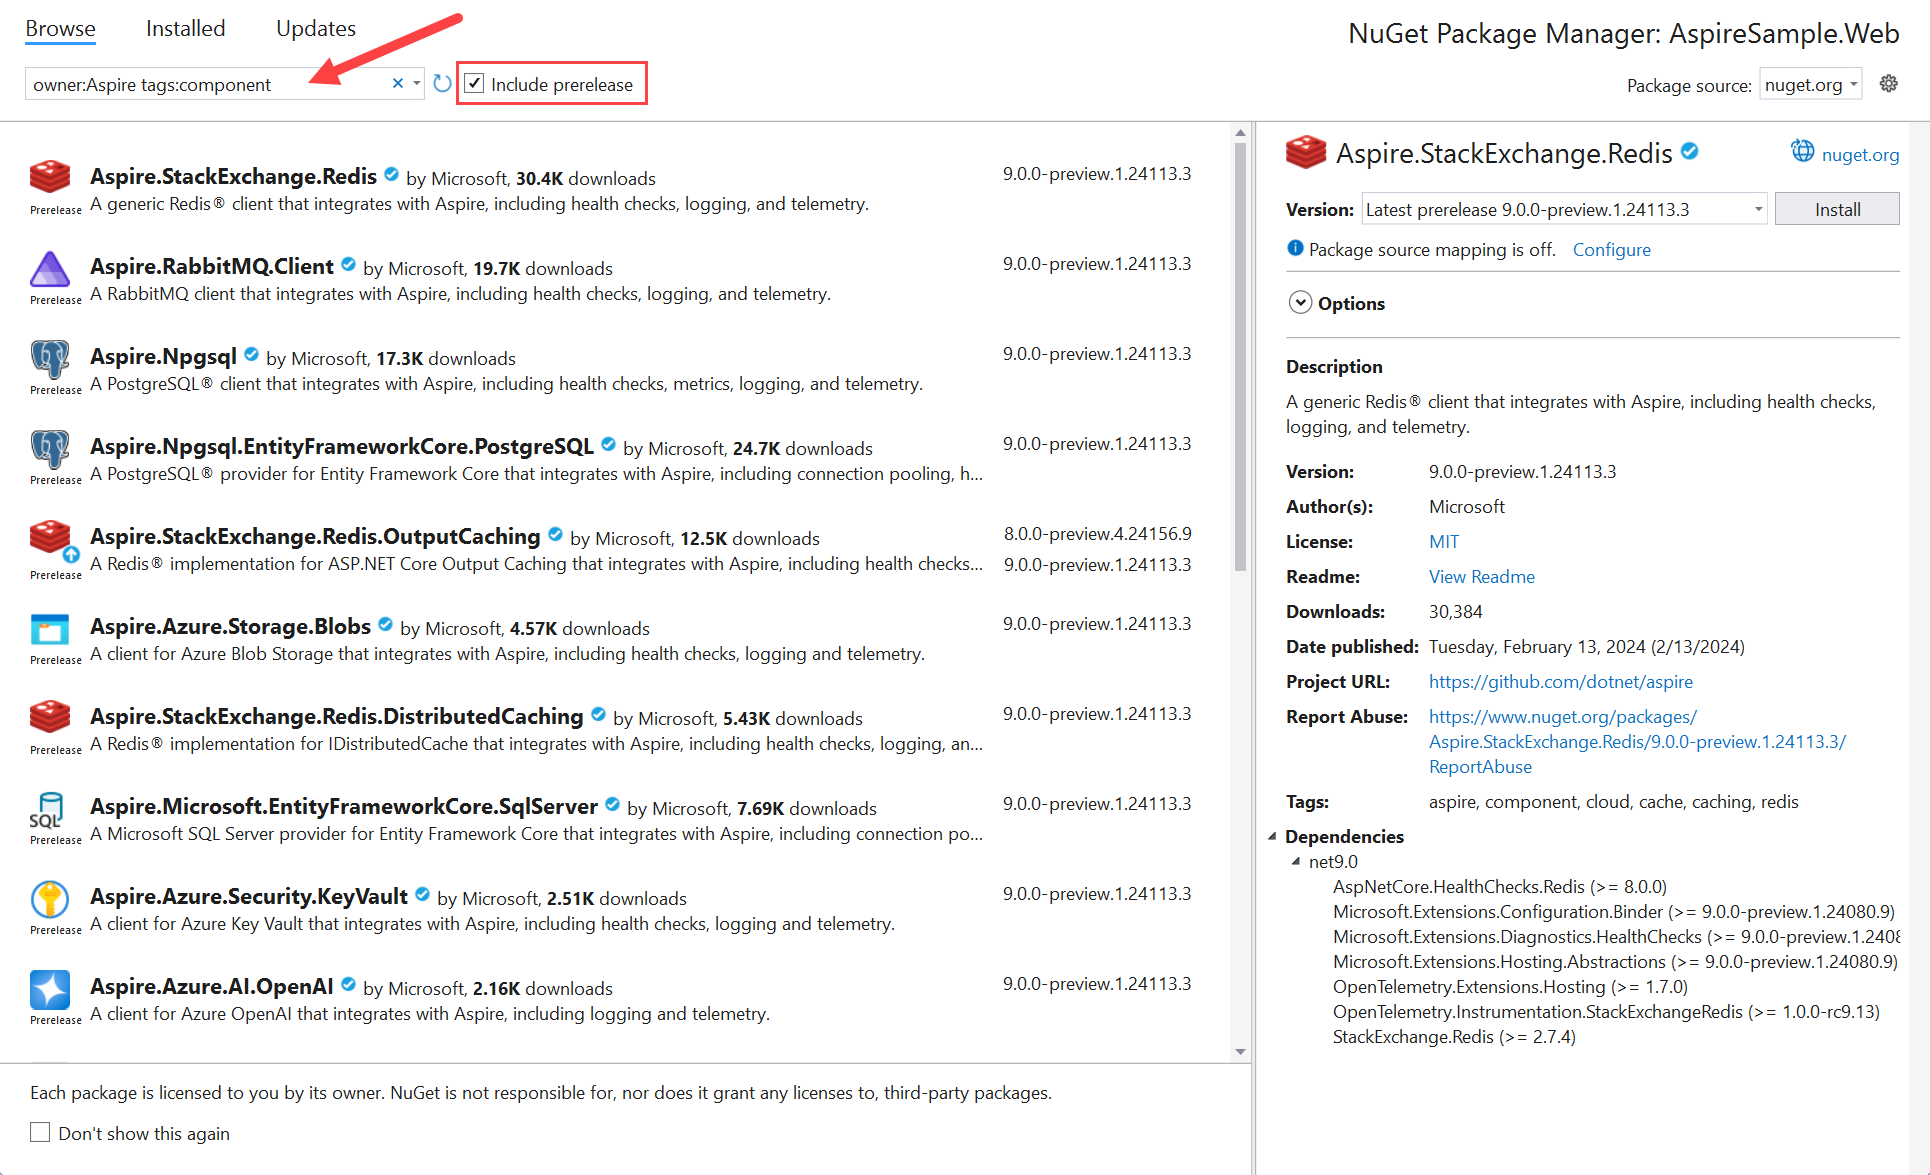
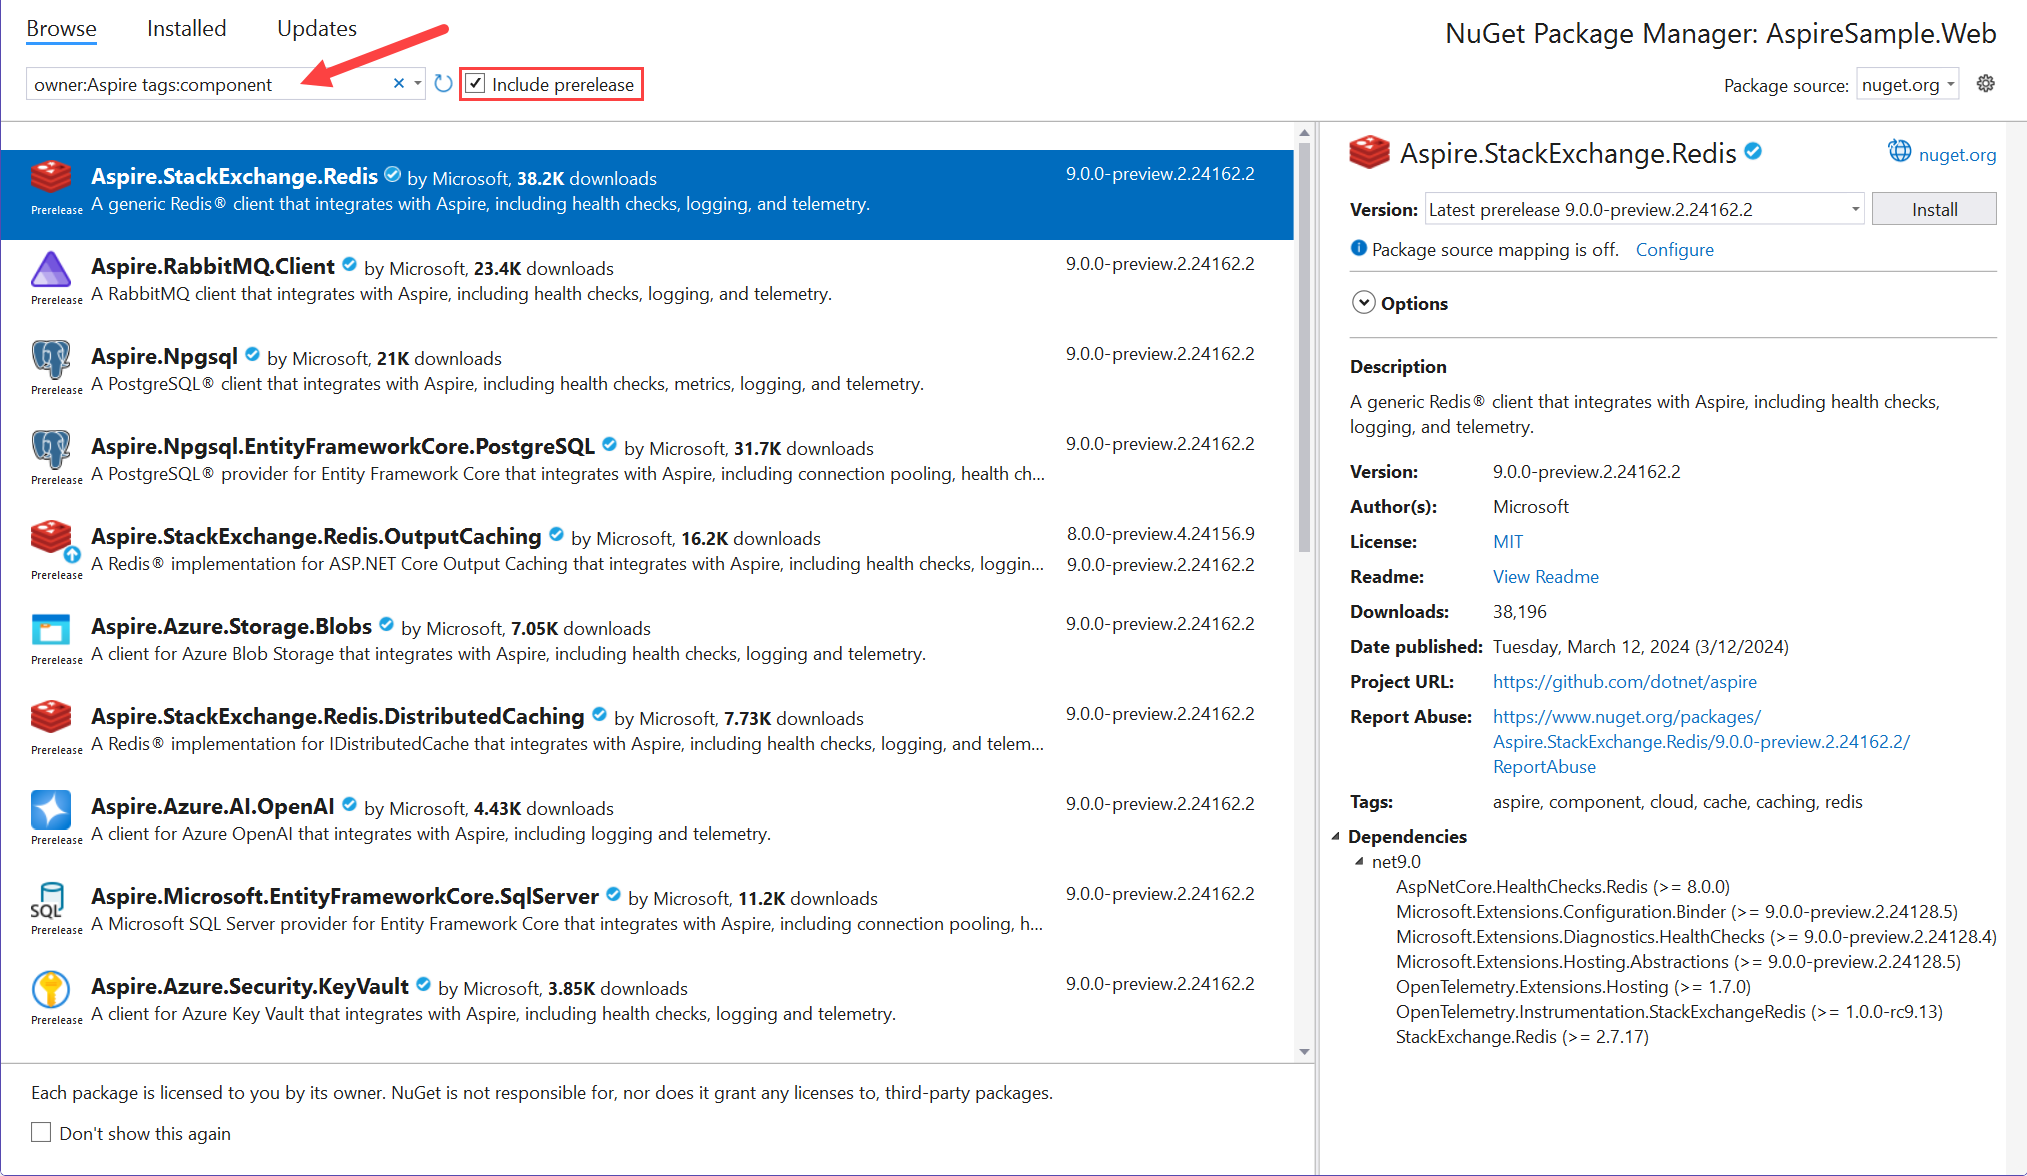
Add details about hosting components. Fixes #538

diff --git a/docs/fundamentals/setup-tooling.md b/docs/fundamentals/setup-tooling.md
@@ -1,7 +1,7 @@
 ---
 title: .NET Aspire tooling
 description: Learn about essential tooling concepts for .NET Aspire.
-ms.date: 03/25/2024
+ms.date: 03/28/2024
 ---
 
 # .NET Aspire setup and tooling
@@ -136,6 +136,9 @@ There are currently four project templates available:
 
 - **.NET Aspire Service Defaults**: A standalone **.ServiceDefaults** project that can be used to manage configurations that are reused across the projects in your solution related to [resilience](/dotnet/core/resilience/http-resilience), [service discovery](../service-discovery/overview.md), and [telemetry](./telemetry.md).
 
+  > [!IMPORTANT]
+  > The service defaults project template takes a `FrameworkReference` dependency on `Microsoft.AspNetCore.App`. This may not be ideal for some project types. For more information, see [.NET Aspire service defaults](service-defaults.md).
+
 Use Visual Studio or the .NET CLI to create new apps using these project templates. Explore additional .NET Aspire project templates in the [.NET Aspire samples](https://github.com/dotnet/aspire-samples) repository.
 
 # [Visual Studio](#tab/visual-studio)
@@ -210,6 +213,18 @@ You add .NET Aspire components to your app like any other NuGet package using Vi
     :::image type="content" source="../media/visual-studio-add-aspire-comp-nuget.png" lightbox="../media/visual-studio-add-aspire-comp-nuget.png" alt-text="The Visual Studio context menu displaying the Add .NET Aspire options.":::
 
 For more information on .NET Aspire components, see [.NET Aspire components overview](components-overview.md).
+
+### Add a hosting component
+
+.NET Aspire hosting components are used to configure various hosting scenarios, for example, integration with Dapr, Orleans, Hosting components are differentiated from other components in that they are added to the **.AppHost** project. To add a hosting component to your app, follow these steps:
+
+1. In Visual Studio, right click on the **.AppHost** project and select **Add** > **.NET Aspire Hosting Component...**.
+
+    :::image type="content" source="../media/visual-studio-add-aspire-hosting-component.png" lightbox="../media/visual-studio-add-aspire-hosting-component.png" alt-text="The Visual Studio context menu displaying the Add .NET Aspire Hosting Component option.":::
+
+1. The package manager will open with search results pre-configured (populating filter criteria) for .NET Aspire hosting components, allowing you to easily browse and select the desired component. The **Include prerelease** checkbox needs to be checked to see preview components.
+
+    :::image type="content" source="../media/visual-studio-add-aspire-hosting-comp-nuget.png" lightbox="../media/visual-studio-add-aspire-hosting-comp-nuget.png" alt-text="The Visual Studio context menu displaying the Add .NET Aspire options.":::
 
 ### Add orchestration projects
 
